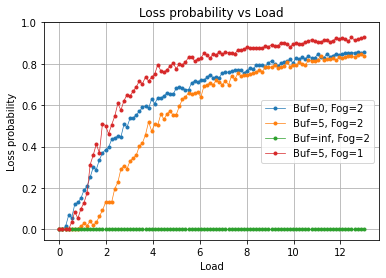
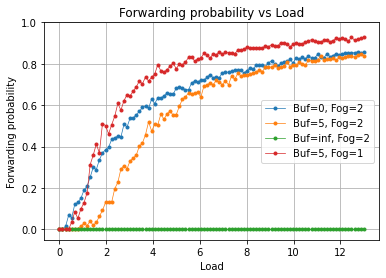
code ordering

Changed region(s): [[0.3109, 0.0288, 0.8083, 0.0863], [0.0, 0.2878, 0.0622, 0.6906]]

diff --git a/Lab2/ex2b_sim.py b/Lab2/ex2b_sim.py
@@ -28,18 +28,18 @@ if __name__ == '__main__':
     # SIMULATION PARAMS
     SIM_TIME = 1000000
     
-    time_tot=[]
-    lost_tot=[]
-    num_sim=50
-    BUFFERS=np.linspace(0,20,21)
+    time_tot = []
+    lost_tot = []
+    num_sim = 50
+    BUFFERS = np.linspace(0,20,21)
     for seed in range(num_sim):
         random.seed(seed)
         np.random.seed(seed)
         time_sys=[]
         lost_pkt=[]
         for CLOUD_BUFFER_SIZE in BUFFERS:
-            data = sim.Measure(0,0,0,0,0,0,0,0,0,0,[],[],[])
-            data_cloud = sim.Measure(0,0,0,0,0,0,0,0,0,0,[],[],[])
+            data = sim.Measure()
+            data_cloud = sim.Measure()
 
             # simulator
             s = sim.Simulator(data, data_cloud, LOAD, SERVICE, ARRIVAL, BUFFER_SIZE, 
@@ -67,7 +67,7 @@ if __name__ == '__main__':
     plt.plot(BUFFERS, T)
     plt.grid()
     plt.xlabel("CDC buffer size")
-    plt.ylabel("Average queuing delay")
+    plt.ylabel("Average queuing delay [ms]")
     plt.title("Average queuing delay for the whole system")
     plt.show()
 

diff --git a/Lab2/ex2a_sim.py b/Lab2/ex2a_sim.py
@@ -29,7 +29,6 @@ if __name__ == '__main__':
     # SIMULATION PARAMS
     SIM_TIME = 1000000
     
-    
     time_tot=[]
     lost_tot=[]
     num_sim=50
@@ -40,8 +39,8 @@ if __name__ == '__main__':
         time_sys=[]
         lost_pkt=[]
         for BUFFER_SIZE in BUFFERS:
-            data = sim.Measure(0,0,0,0,0,0,0,0,0,0,[],[],[])
-            data_cloud = sim.Measure(0,0,0,0,0,0,0,0,0,0,[],[],[])
+            data = sim.Measure()
+            data_cloud = sim.Measure()
 
             # simulator
             s = sim.Simulator(data, data_cloud, LOAD, SERVICE, ARRIVAL, BUFFER_SIZE, 
@@ -67,11 +66,10 @@ if __name__ == '__main__':
         L+=np.array(l)
     L/=num_sim
 
-
     plt.plot(BUFFERS, T)
     plt.grid()
     plt.xlabel("MDC buffer size")
-    plt.ylabel("Average queuing delay")
+    plt.ylabel("Average queuing delay [ms]")
     plt.title("Average queuing delay for the whole system")
     plt.show()
 

diff --git a/Lab1/ex3_sim.py b/Lab1/ex3_sim.py
@@ -104,9 +104,9 @@ if __name__ == '__main__':
     plt.grid()
     plt.legend()
     plt.xlabel("Load")
-    plt.ylabel("Loss probability")
+    plt.ylabel("Forwarding probability")
     plt.ylim([-0.05,1])
-    plt.title('Loss probability vs Load')
+    plt.title('Forwarding probability vs Load')
     plt.show()
     
     # Loss probability vs Load (zoomed)
@@ -115,10 +115,10 @@ if __name__ == '__main__':
     plt.grid()
     plt.legend()
     plt.xlabel("Load")
-    plt.ylabel("Loss probability")
+    plt.ylabel("Forwarding probability")
     plt.xlim([0,3])
     plt.ylim([0,1])
-    plt.title('Loss probability vs Load (zoomed)')
+    plt.title('Forwarding probability vs Load (zoomed)')
     plt.show()
 
     # Avg time spent in system vs Load

diff --git a/Lab2/ex2c_sim.py b/Lab2/ex2c_sim.py
@@ -40,8 +40,8 @@ if __name__ == '__main__':
         time_sys=[]
         lost_pkt=[]
         for f in f_space:
-            data = sim.Measure(0,0,0,0,0,0,0,0,0,0,[],[],[])
-            data_cloud = sim.Measure(0,0,0,0,0,0,0,0,0,0,[],[],[])
+            data = sim.Measure()
+            data_cloud = sim.Measure()
 
             # simulator
             s = sim.Simulator(data, data_cloud, LOAD, SERVICE, ARRIVAL, BUFFER_SIZE, 
@@ -69,7 +69,7 @@ if __name__ == '__main__':
     plt.plot(f_space, T)
     plt.grid()
     plt.xlabel("f")
-    plt.ylabel("Average queuing delay")
+    plt.ylabel("Average queuing delay [ms]")
     plt.title("Average queuing delay for the whole system")
     plt.show()
 

diff --git a/Lab2/simulator_class2.py b/Lab2/simulator_class2.py
@@ -493,11 +493,11 @@ class Simulator():
             elif distribution == 'Constant':
                 service_time = serverService
 
-            if next_client.type=='B':
-                if next_client.isPreProcessed==True:
-                    service_time=2*service_time
+            if next_client.type == 'B':
+                if next_client.isPreProcessed == True:
+                    service_time = 2 * service_time
                 else:
-                    service_time=3*service_time
+                    service_time = 3 * service_time
 
             # schedule when the client will finish the server
             self.FES.put((time + service_time, "departure_cloud"))

diff --git a/Lab2/ex1_sim.py b/Lab2/ex1_sim.py
@@ -13,7 +13,7 @@ np.random.seed(42)
 if __name__ == '__main__':
         
     # PARAMS
-    SERVICE = 1000
+    SERVICE = 100
     LOAD = 2
     ARRIVAL = SERVICE/LOAD
 
@@ -21,7 +21,7 @@ if __name__ == '__main__':
     BUFFER_SIZE = 25
     FOG_NODES = 1
     f = 0.7
-    SERVICE_CLOUD = 500
+    SERVICE_CLOUD = 50
     CLOUD_BUFFER_SIZE = 100
     CLOUD_SERVERS = 1
     
@@ -29,7 +29,7 @@ if __name__ == '__main__':
     SIM_TIME = 300000
     
     # multiple sims
-    num_sim = 10
+    num_sim = 100
     TRANSIENT_THRESHOLD = 200
     X = []
     X_transient = []

diff --git a/Lab2/ex3b_sim.py b/Lab2/ex3b_sim.py
@@ -40,8 +40,8 @@ if __name__ == '__main__':
             SIM_TIME = 300000
             
             # data storage object
-            data = sim.Measure(0,0,0,0,0,0,0,0,0,0,[],[],[])
-            data_cloud = sim.Measure(0,0,0,0,0,0,0,0,0,0,[],[],[])
+            data = sim.Measure()
+            data_cloud = sim.Measure()
         
             # simulator
             s = sim.Simulator(data, data_cloud, LOAD, SERVICE, ARRIVAL, BUFFER_SIZE, 

diff --git a/Lab1/ex3b_sim.py b/Lab1/ex3b_sim.py
@@ -63,9 +63,9 @@ if __name__ == '__main__':
     plt.grid()
     plt.legend()
     plt.xlabel("Buffer size")
-    plt.ylabel("Loss probability")
+    plt.ylabel("Forwarding probability")
     plt.ylim([-0.05,1])
-    plt.title('Loss probability vs Buffer size')
+    plt.title('Forwarding probability vs Buffer size')
     plt.show()
     
     # Avg time spent in system vs Load
